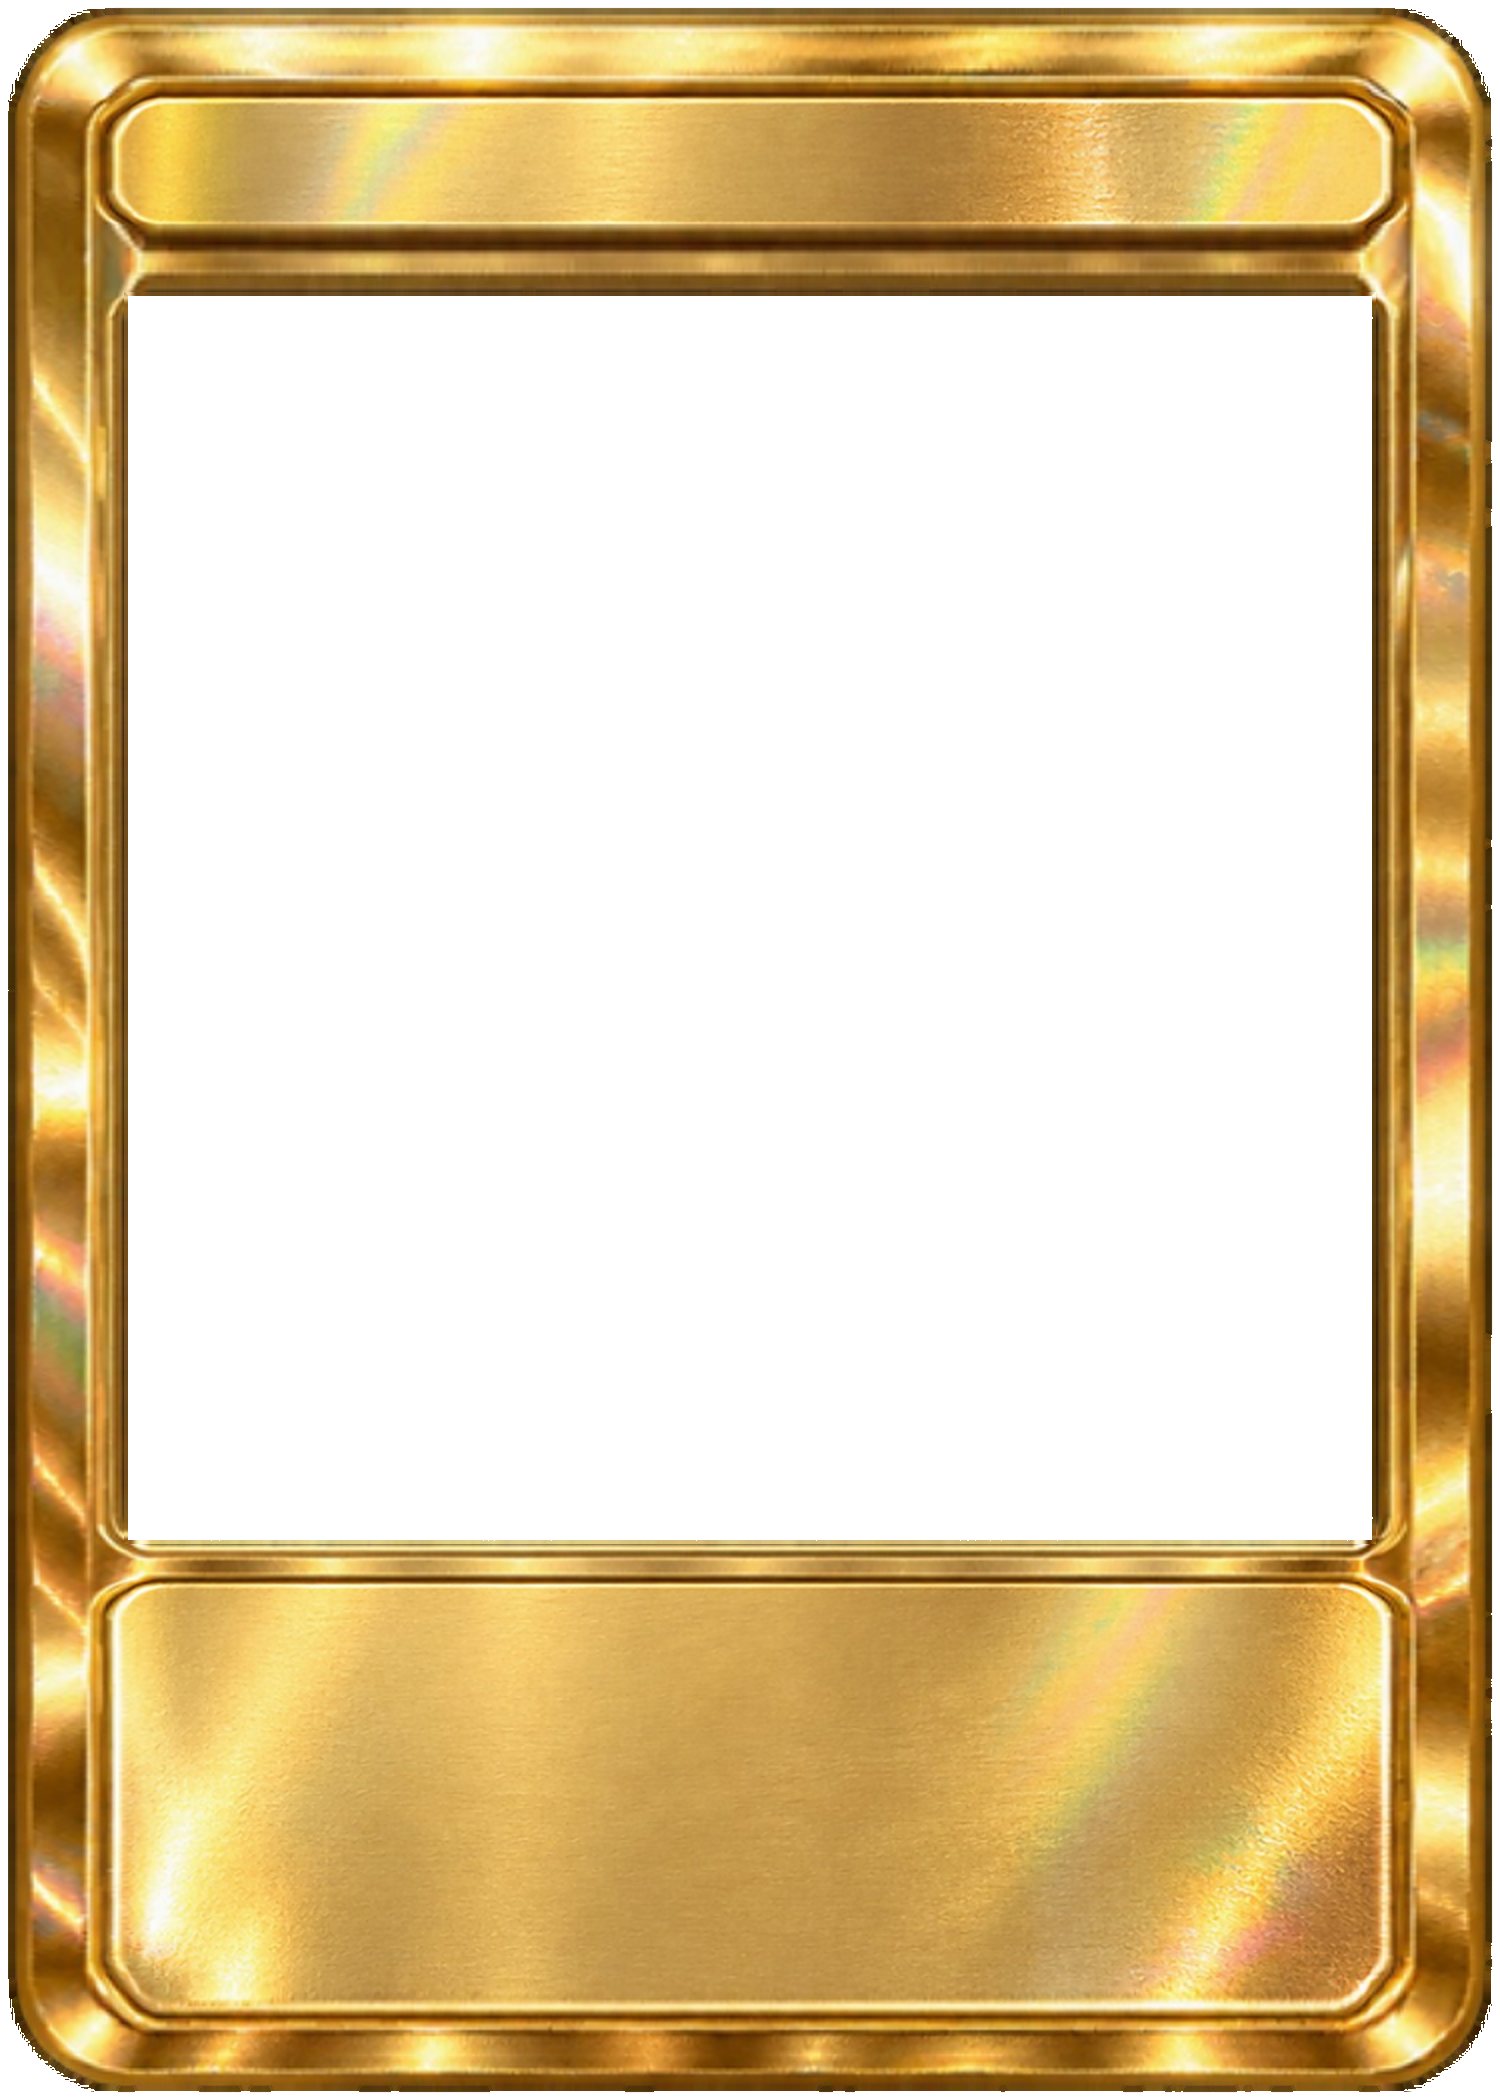
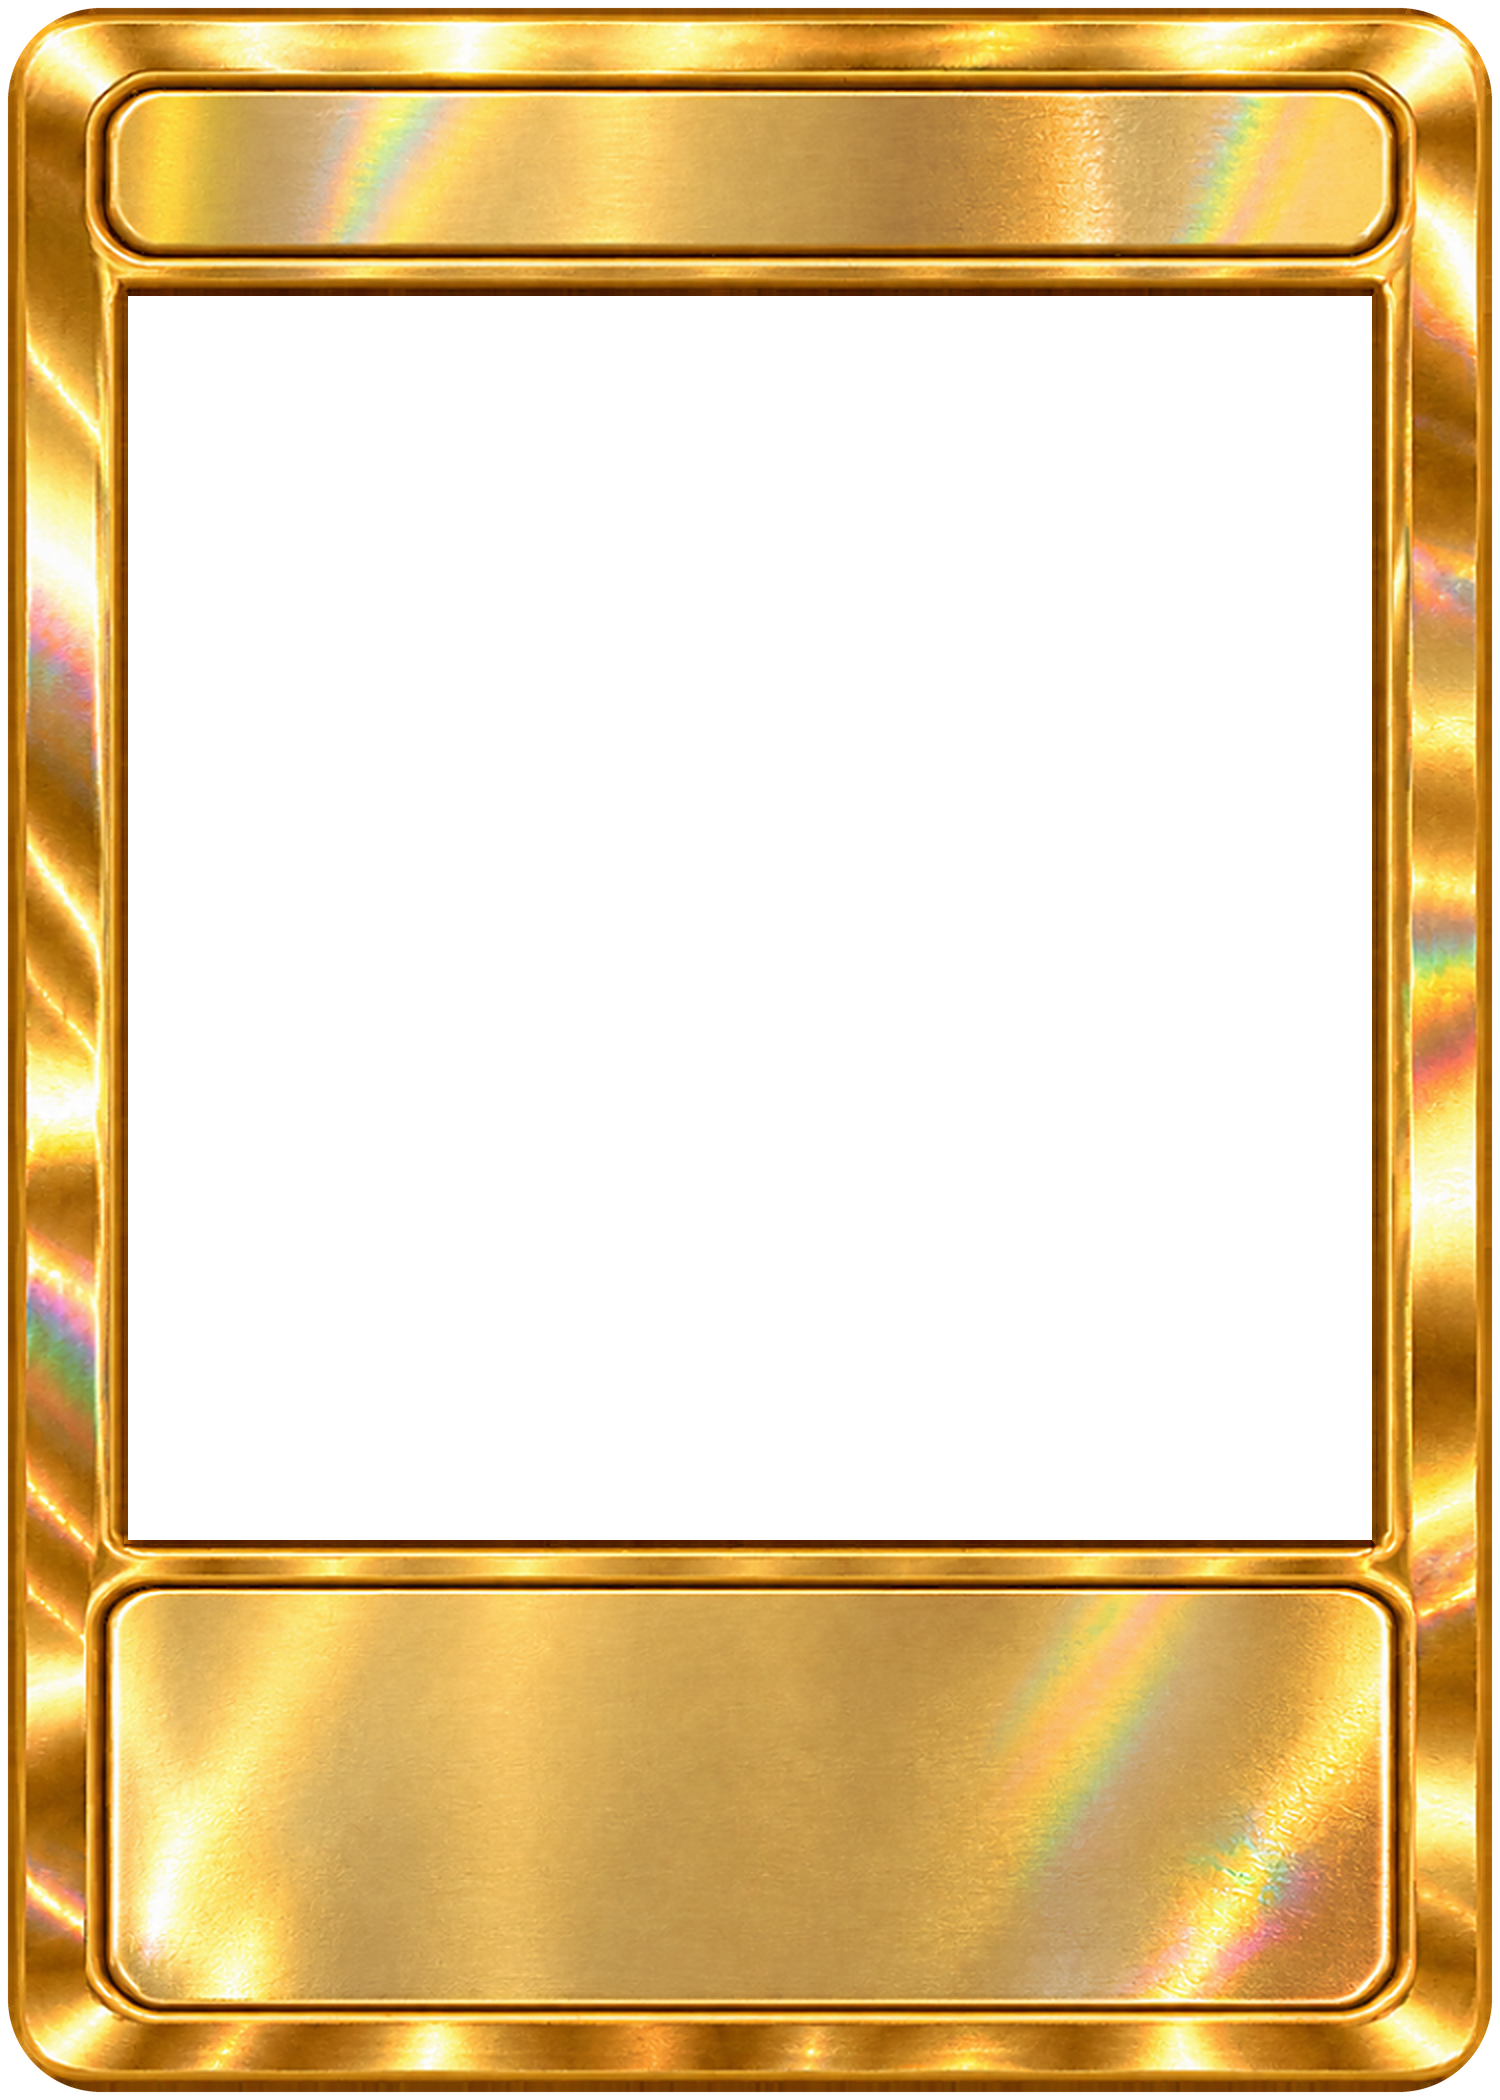
Frames: Gold holo corners and border matched to the set; every frame now shares one outline
All 11 frames: 1500 x 2100, identical art window and outline (0 px difference from the master). FRAMES_UPDATED_AT
bumped, so earlier approvals are redone on the new frames.

Claude-Session: https://claude.ai/code/session_01LEzX9WUx8sWcSwwRyLeaEz

Changed region(s): [[0.0, 0.0, 1.0, 1.0], [0.7053, 0.8357, 0.736, 0.8976], [0.736, 0.8048, 0.7667, 0.8357]]

diff --git a/studio/src/frames.ts b/studio/src/frames.ts
@@ -89,7 +89,7 @@ export const BUILTIN_FRAMES: Record<string, Partial<Record<Variant, string>>> = 
 
 /** Bump (to a time in the past, e.g. when the change is made) when a frame file is added or changed: approvals made
  *  before this go stale and must be redone. */
-export const FRAMES_UPDATED_AT = Date.UTC(2026, 9, 11, 22, 0)
+export const FRAMES_UPDATED_AT = Date.UTC(2026, 9, 12, 12, 0)
 
 /** From the templates' layout.json (750 x 1050), doubled to 1500 x 2100. Identical on every frame. */
 export const FRAME_GEOMETRY = {
